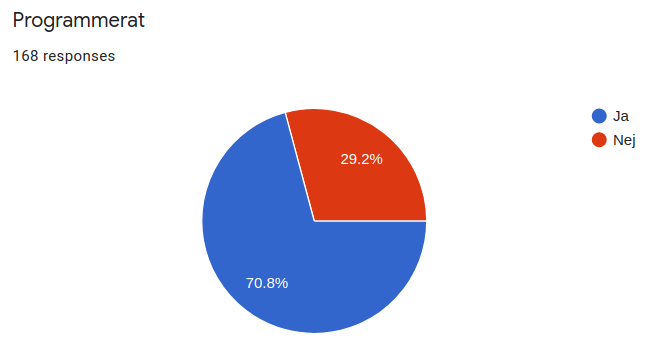
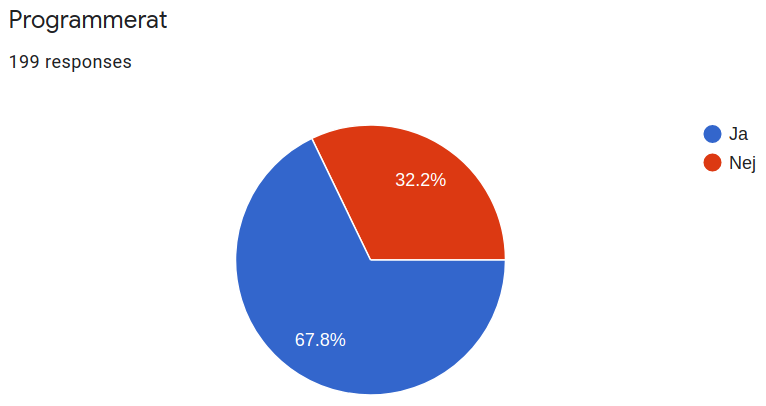
update slides w01 add images

diff --git a/slides/body/lect-w01-about.tex b/slides/body/lect-w01-about.tex
@@ -57,13 +57,12 @@ Kursen är uppdelad i två läsperioder. Efter första läsperioden gör du en d
 \end{SlideExtra}
 
 \begin{SlideExtra}{Corona-anpassning}
-  \TODO 
   \begin{itemize}
-    \item Läsa noga om Corona-anpassning på kursens hemsida.
+    \item Läsa noga om Corona-anpassning på kursens hemsida och i Canvas. Håll koll på anslag i Canvas. 
     \item Håll avstånd! Stanna hemma om du får symptom!
-    \item Default: Handledning på plats i E-husets Linux-rum i små grupper enligt schema i TimeEdit. 
-    \item Om du får symptom: delta online, pratar med handledare via Discord. Denna resurs är reserverad för de med symptom/riskgrupp. Om du är frisk så ska du delta på plats. 
-    \item Föreläsningar ges i \Alert{hybrid}-form: max 50 får närvara i E:A enligt inbjudan (rullande schema i Canvas), resten deltar online. Föreläsningarna spelas in. Vi kan med kort varsel behöva gå över till enbart online, tex pga ändringar i smittoläget. Håll koll på anslag i Canvas.
+    \item Default: Handledning på plats i E-husets Linux-rum en person per dator enligt schema i TimeEdit. 
+    \item Om du får symptom: delta online, pratar med handledare via Discord. De som har symptom/riskgrupp har förtur. Om du är frisk så ska du delta på plats. 
+    \item Föreläsningar ges i \Alert{hybrid}-form: du får närvara på plats i E:A enligt inbjudan (rullande schema i Canvas), resten deltar online. Föreläsningarna spelas in. Vi kan med kort varsel behöva gå över till enbart online, tex pga ändringar i smittoläget. 
   \end{itemize}
 \end{SlideExtra}
 \fi
@@ -193,8 +192,8 @@ Algol & förhistoria med hålkortsprogrammering \\
 \ifkompendium\else
 \begin{SlideExtra}{Kurslitteratur}
 \begin{minipage}{0.6\textwidth}\SlideFontSmall
-\hskip1.33em\includegraphics[width=0.35\textwidth]{../img/compendium-cover-part1-2020.png}%
-~~~\includegraphics[width=0.348\textwidth]{../img/compendium-cover-part2-2020.png}
+\hskip1.33em\includegraphics[width=0.35\textwidth]{../img/compendium-cover-part1-2021.png}%
+~~~\includegraphics[width=0.348\textwidth]{../img/compendium-cover-part2-2021.png}
 \begin{itemize}
 \item \Emph{Kompendium}\\med övningar \& laborationer, \\trycks till självkostnad enl. beställning,\\se info bakom Canvas-väggen.
 \item Föreläsningsbilder på kurshemsidan \\
@@ -252,7 +251,7 @@ Dessa läroböcker följer inte direkt kursens upplägg vad gäller omfång och 
 
 \item \Emph{Snabbreferensen} finns också i pdf men du behöver ha en tryckt version eftersom det är \Alert{enda tillåtna hjälpmedlet} på skriftliga kontrollskrivningen och tentamen. \\ Säljs separat för 35kr på Datavetenskaps expedition.
 
-\item Kompendiet och snabbreferens trycks här i E-huset och säljs av institutionen till \Emph{självkostnadspris} Se info i Canvas.
+\item Kompendiet och snabbreferens trycks här i E-huset och säljs av institutionen till \Emph{självkostnadspris}. Se info i Canvas.
 
 \end{itemize}
 \end{SlideExtra}
@@ -275,8 +274,33 @@ Dessa läroböcker följer inte direkt kursens upplägg vad gäller omfång och 
 \item [\bfseries Kursansvarig:] Prof. Björn Regnell, bjorn.regnell@cs.lth.se, E:2413
 \item [\bfseries Handledare:]\Emph{teknologer:}\\
 %2021
-\TODO
-%Theodor Lundqvist
+Alfred Grip,
+Anna Johannesson,
+André Philipsson, Eriksson
+Dag Hemberg,
+Erik Bergrahm,
+Elsa Cervetti, Ogestad
+Emma Jansson,
+Emmanuel Kring,
+Erik Lundberg,
+Esbjörn Stenberg,
+Fritjof Bengsson,
+Frodi Karlsson,
+Jon Swedberg,
+Linnea Allander,
+Madeleine Berild,
+Marcus Klang,
+Maria Kulesh,
+Maria Svensson,
+Nils Ceberg,
+Niklas Sandén,
+Patrik Gyllvin,
+Philip Sadrian,
+Paul Wuilmart,
+Evelyn Beck,
+Samer Alkhodary,
+Theodor Lundqvist,
+Julius Thunström
 %2020:
 % Anna	Johannesson,
 % Alexander	Sandström,
@@ -409,19 +433,11 @@ Birger Swahn, rum E:2181, Ulrika Templing, rum E:2179 \\
 \begin{SlideExtra}{Detta är bara början... }
 Exempel på efterföljande kurser som bygger vidare på denna:
 \begin{itemize}
-\item \Emph{Årskurs 1}
-\begin{itemize}
 \item Programmeringsteknik -- fördjupningskurs
-\item Utvärdering av programvarusystem
-\item Diskreta strukturer
-\end{itemize}
-\item \Alert{Årskurs 2}
-\begin{itemize}
 \item Objektorienterad modellering och design
 \item Programvaruutveckling i grupp
 \item Algoritmer, datastrukturer och komplexitet
 \item Funktionsprogrammering
-\end{itemize}
 \end{itemize}
 \end{SlideExtra}
 
@@ -458,7 +474,7 @@ Exempel på efterföljande kurser som bygger vidare på denna:
 \end{SlideExtra}
 
 
-\SlideImg{Stor spridning i förkunskaper}{../img/survey-2020}
+\SlideImg{Stor spridning i förkunskaper}{../img/survey-2021.png}
 
 %%% AAAARGH -- version clash ? or something causing thins in Ubuntu 20.04 
 %%%   but not in ubuntu 18.04:

diff --git a/slides/body/lect-w01-intro.tex b/slides/body/lect-w01-intro.tex
@@ -244,11 +244,11 @@ Topplistor:
 
 \ifkompendium\else
 \begin{SlideExtra}{Redmonk Language Rankings: Github, Stackoverflow}
-\TODO\includegraphics[width=0.85\columnwidth]{../img/redmonk-Q320}
+\includegraphics[width=0.85\columnwidth]{../img/redmonk-Q321}
 \end{SlideExtra}
-\begin{SlideExtra}{Några språks utveckling över tid enl. PYPL}
-\TODO\includegraphics[width=0.95\columnwidth]{../img/pypl-06-20}
-\end{SlideExtra}
+% \begin{SlideExtra}{Några språks utveckling över tid enl. PYPL}
+% \TODO\includegraphics[width=0.95\columnwidth]{../img/pypl-06-20}
+% \end{SlideExtra}
 
 \fi
 
